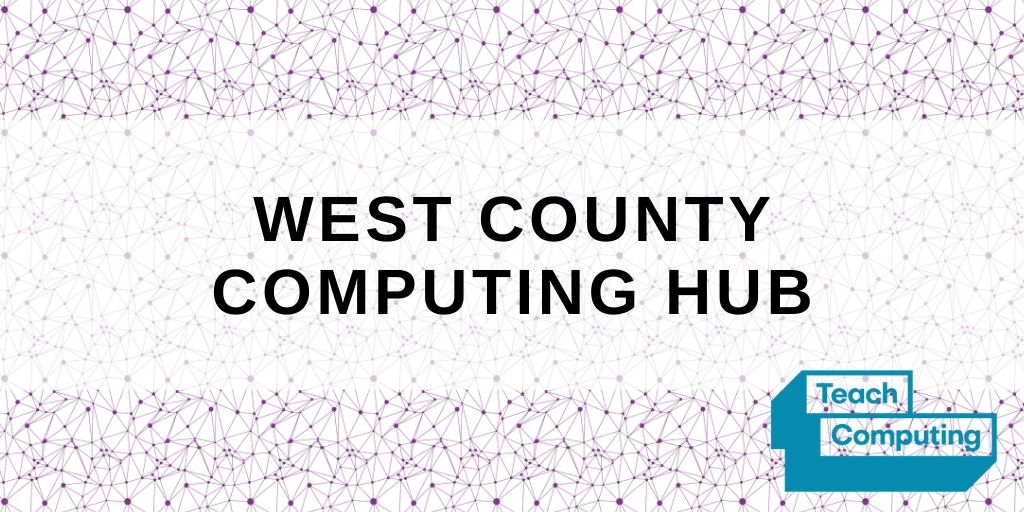
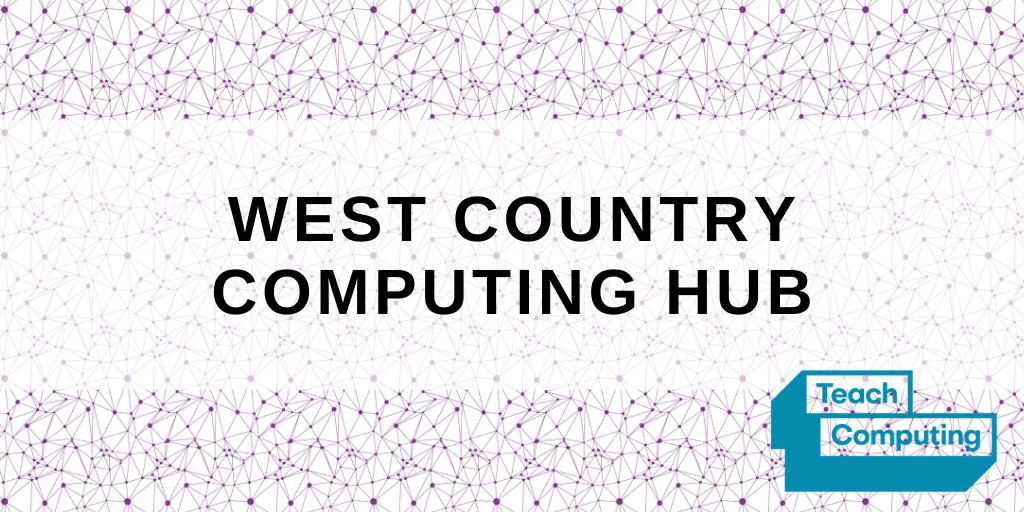
Fixes type in org name

Changed region(s): [[0.2188, 0.375, 0.7812, 0.4688]]

diff --git a/_communities/west-country-computing-hub.md b/_communities/west-country-computing-hub.md
@@ -1,7 +1,7 @@
 ---
 layout: community-page
-name: West County Computing Hub
-dataID: 33294856
+name: West Country Computing Hub
+dataID: 30624169030
 summary: West Country Computing Hub
 featured-img: 'west-country-computing-hub'
 image: /assets/img/communities/west-country-computing-hub_thumb.jpeg
